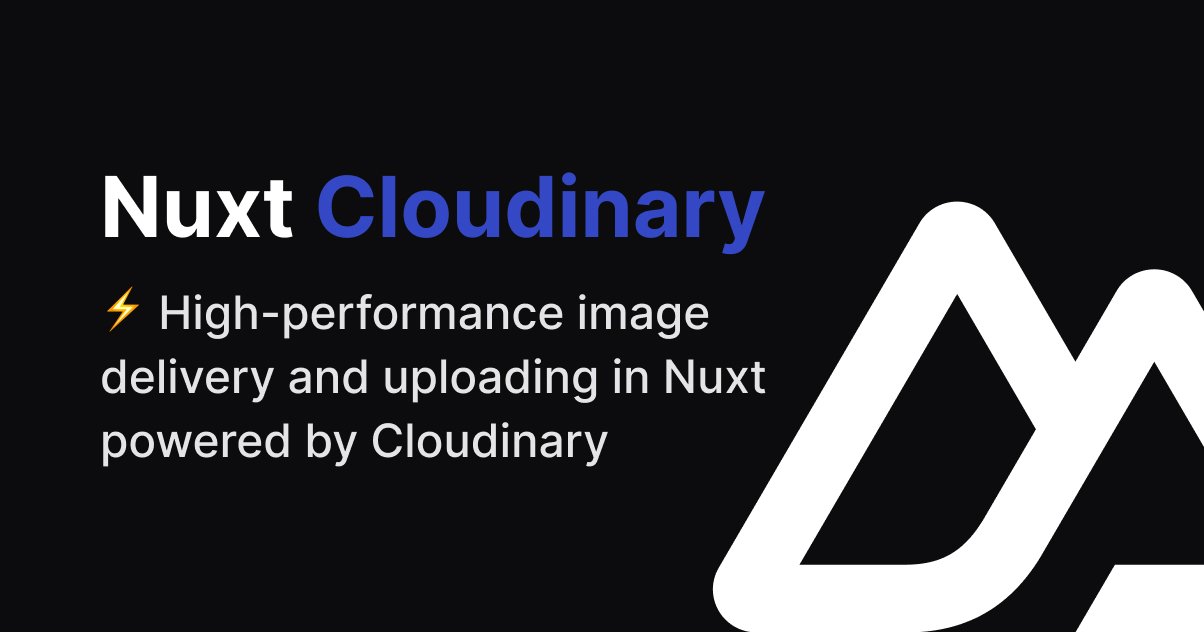
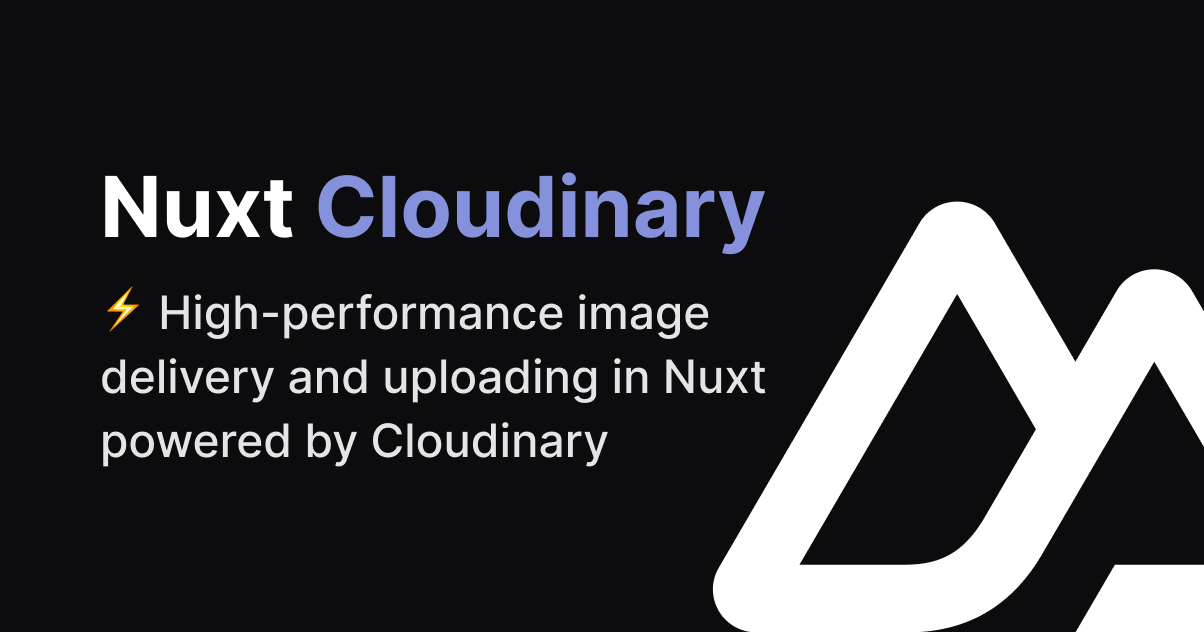
next: add new cover

Changed region(s): [[0.2458, 0.2706, 0.6453, 0.4209]]

diff --git a/README.md b/README.md
@@ -1,4 +1,4 @@
-[![@nuxtjs/cloudinary](https://v2.cloudinary.nuxtjs.org/cover.jpg)](https://v2.cloudinary.nuxtjs.org)
+[![@nuxtjs/cloudinary](./docs/public/cover.jpg)](https://v2.cloudinary.nuxtjs.org)
 
 # @nuxtjs/cloudinary
 
